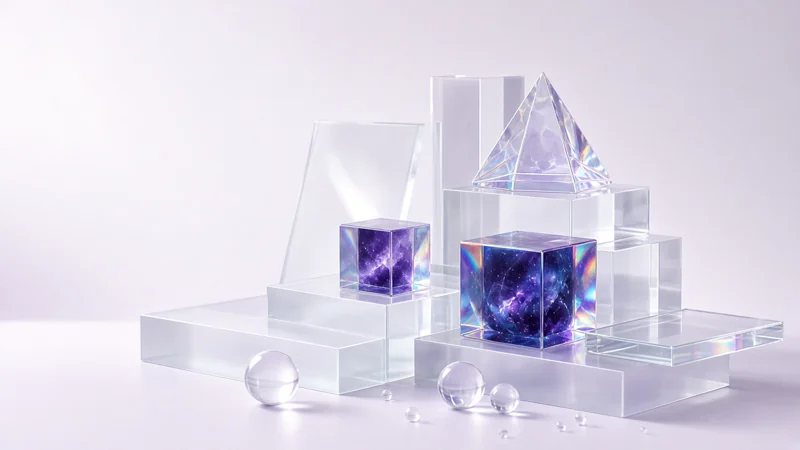
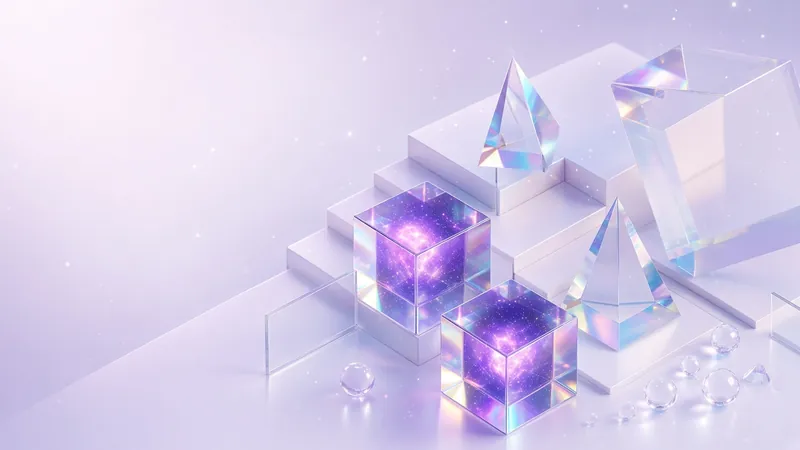
fix(home): show the lilac glass hero in colour
The hero photo was forced to grey by a grayscale filter, so the cubes read as black. The new still is pale lilac glass with a violet nebula, and the page tint follows it.

diff --git a/src/web/static/css/narjis-agentic.css b/src/web/static/css/narjis-agentic.css
@@ -3,13 +3,13 @@
 
 html.cine-on,
 html.cine-fallback {
-  background: #f3f2f0;
+  background: #f6eefb;
 }
 html.cine-on body.nj,
 html.cine-fallback body.nj {
   background:
     radial-gradient(1200px 700px at 80% -10%, rgba(232, 228, 238, .9), transparent 60%),
-    linear-gradient(180deg, #f7f6f4 0%, #f3f2f0 38%, #eceaf1 100%);
+    linear-gradient(180deg, #f8f2fc 0%, #f6eefb 38%, #f3eaf8 100%);
   color: #161412;
 }
 html.cine-on #cineBg,
@@ -147,16 +147,16 @@ html.cine-fallback .nj .mobile-nav nav a:hover {
 html.cine-on .nj main .hero,
 html.cine-fallback .nj main .hero {
   min-height: 100svh;
-  background: #f3f2f0;
+  background: #f6eefb;
   color: #161412;
 }
 html.cine-on .nj .hero::after,
 html.cine-fallback .nj .hero::after {
-  background: linear-gradient(to left, rgba(243, 242, 240, .78) 0%, rgba(243, 242, 240, .35) 46%, rgba(243, 242, 240, 0) 72%);
+  background: linear-gradient(to left, rgba(246, 238, 251, .2) 0%, rgba(246, 238, 251, 0) 42%);
 }
 [dir="ltr"] html.cine-on .nj .hero::after,
 [dir="ltr"] html.cine-fallback .nj .hero::after {
-  background: linear-gradient(to right, rgba(243, 242, 240, .78) 0%, rgba(243, 242, 240, .35) 46%, rgba(243, 242, 240, 0) 72%);
+  background: linear-gradient(to right, rgba(246, 238, 251, .2) 0%, rgba(246, 238, 251, 0) 42%);
 }
 html.cine-on .nj main .hero h1.display,
 html.cine-fallback .nj main .hero h1.display {
@@ -513,7 +513,7 @@ html.cine-fallback .nj .vision p {
   html.cine-fallback .nj .hero::after,
   [dir="ltr"] html.cine-on .nj .hero::after,
   [dir="ltr"] html.cine-fallback .nj .hero::after {
-    background: linear-gradient(180deg, rgba(243, 242, 240, .25) 0%, rgba(243, 242, 240, .82) 48%, #f3f2f0 100%);
+    background: linear-gradient(180deg, rgba(246, 238, 251, .08) 0%, rgba(246, 238, 251, .4) 70%, #f6eefb 100%);
   }
   html.cine-on .nj main .hero h1.display,
   html.cine-fallback .nj main .hero h1.display {
@@ -544,7 +544,7 @@ html.cine-on,
 html.cine-fallback,
 html.cine-on body.nj,
 html.cine-fallback body.nj {
-  background: #f4f2f7;
+  background: #f6eefb;
   color: #1a1a1a;
 }
 html.cine-on .nj .nj-nav .wrap,
@@ -593,12 +593,14 @@ html.cine-fallback .nj .nj-nav .nav-cta {
 html.cine-on .nj main .hero,
 html.cine-fallback .nj main .hero {
   min-height: 100svh;
-  background: #f4f2f7;
+  background: #f6eefb;
 }
 html.cine-on .nj .hero-bg,
 html.cine-fallback .nj .hero-bg {
   transform: scaleX(-1);
-  object-position: center;
+  object-position: center 72%;
+  filter: none;
+  opacity: 1;
 }
 [dir="ltr"] html.cine-on .nj .hero-bg,
 [dir="ltr"] html.cine-fallback .nj .hero-bg {
@@ -606,11 +608,11 @@ html.cine-fallback .nj .hero-bg {
 }
 html.cine-on .nj .hero::after,
 html.cine-fallback .nj .hero::after {
-  background: linear-gradient(to left, rgba(244, 242, 247, .42) 0%, rgba(244, 242, 247, 0) 46%);
+  background: linear-gradient(to left, rgba(246, 238, 251, .16) 0%, rgba(246, 238, 251, 0) 40%);
 }
 [dir="ltr"] html.cine-on .nj .hero::after,
 [dir="ltr"] html.cine-fallback .nj .hero::after {
-  background: linear-gradient(to right, rgba(244, 242, 247, .42) 0%, rgba(244, 242, 247, 0) 46%);
+  background: linear-gradient(to right, rgba(246, 238, 251, .16) 0%, rgba(246, 238, 251, 0) 40%);
 }
 html.cine-on .nj main .hero > .wrap,
 html.cine-fallback .nj main .hero > .wrap {
@@ -745,7 +747,7 @@ html.cine-fallback #mbarWhatsapp {
   html.cine-fallback .nj .hero::after,
   [dir="ltr"] html.cine-on .nj .hero::after,
   [dir="ltr"] html.cine-fallback .nj .hero::after {
-    background: linear-gradient(180deg, rgba(244, 242, 247, .08) 0%, rgba(244, 242, 247, .55) 62%, #f4f2f7 100%);
+    background: linear-gradient(180deg, rgba(246, 238, 251, .06) 0%, rgba(246, 238, 251, .32) 68%, #f6eefb 100%);
   }
   html.cine-on .nj .hero .copy,
   html.cine-fallback .nj .hero .copy {

diff --git a/src/web/templates/landing.html b/src/web/templates/landing.html
@@ -8,7 +8,7 @@
 <head>
     <meta charset="UTF-8">
     <meta name="viewport" content="width=device-width, initial-scale=1.0">
-    <meta name="theme-color" content="#f3f2f0">
+    <meta name="theme-color" content="#f6eefb">
     <link rel="icon" href="/static/favicon.svg" type="image/svg+xml">
     <link rel="icon" href="/brand/favicon.png" type="image/png" sizes="48x48">
     <link rel="apple-touch-icon" href="/brand/apple-touch-icon.png">
@@ -198,7 +198,7 @@
 <!-- ==================== HERO ==================== -->
 <section class="hero" id="top" aria-labelledby="hero-h">
     <div id="cineBg" aria-hidden="true"></div>
-    <img class="hero-bg" src="/static/img/hero-najdi.webp" srcset="/static/img/hero-najdi-800.webp 800w, /static/img/hero-najdi.webp 1280w" sizes="100vw" width="1280" height="720" alt="{% if ar %}مكعبات زجاج بلوري وهرم بلوري وكرات زجاجية على خلفية بيضاء فاتحة{% else %}Frosted glass cubes, a crystal pyramid and glass spheres on a pale background{% endif %}" fetchpriority="high" decoding="async">
+    <img class="hero-bg" src="/static/img/hero-najdi.webp" srcset="/static/img/hero-najdi-800.webp 800w, /static/img/hero-najdi.webp 1280w" sizes="100vw" width="1280" height="720" alt="{% if ar %}زجاج شفاف على خلفية ليلكية فاتحة: مكعبات بوهج بنفسجي، أهرام بلورية وحواف قوس قزح{% else %}Clear glass on a pale lilac ground: cubes with a violet glow, crystal pyramids and rainbow edges{% endif %}" fetchpriority="high" decoding="async">
     <div class="cine-stage" id="cineStage" aria-hidden="true"></div>
     <img class="cine-fallback-art" src="/static/img/narcissus-fallback.svg" width="400" height="520" alt="" decoding="async">
     <div class="wrap">

diff --git a/tests/test_design_system.py b/tests/test_design_system.py
@@ -461,7 +461,7 @@ def _najdi() -> str:
 
 
 def test_landing_declares_the_agentic_theme_colour() -> None:
-    assert '<meta name="theme-color" content="#f3f2f0">' in read("landing.html")
+    assert '<meta name="theme-color" content="#f6eefb">' in read("landing.html")
 
 
 def test_najdi_landing_loads_only_its_layer_and_fonts() -> None:
